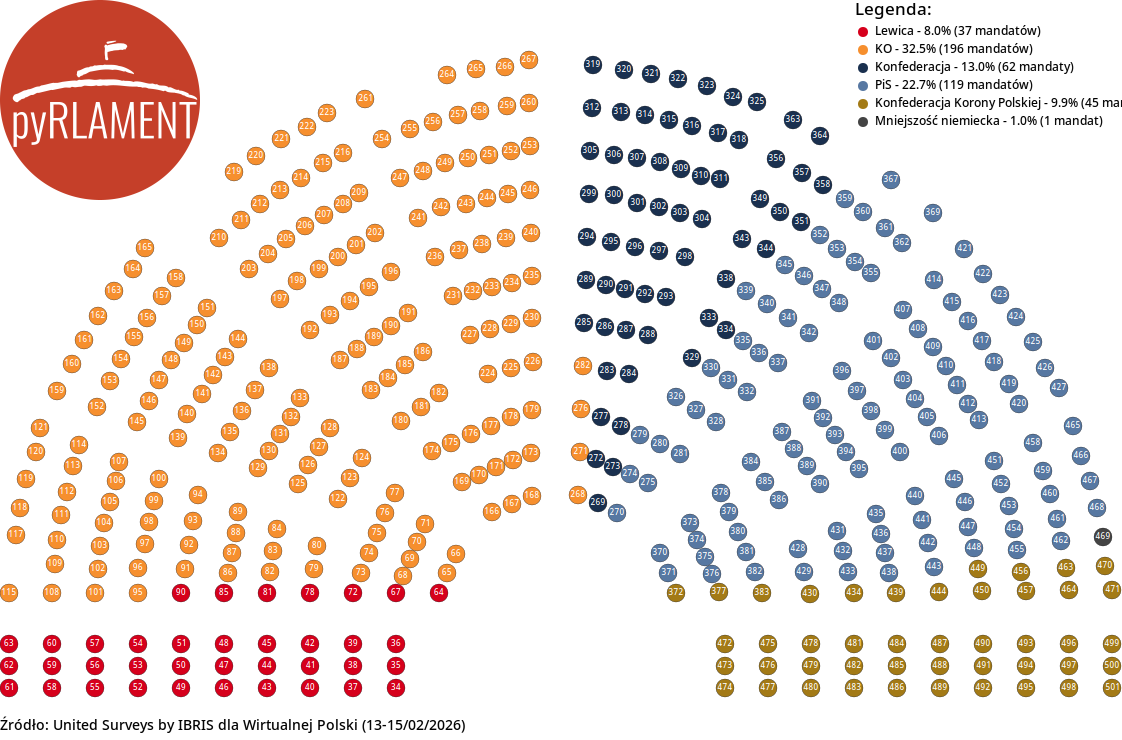
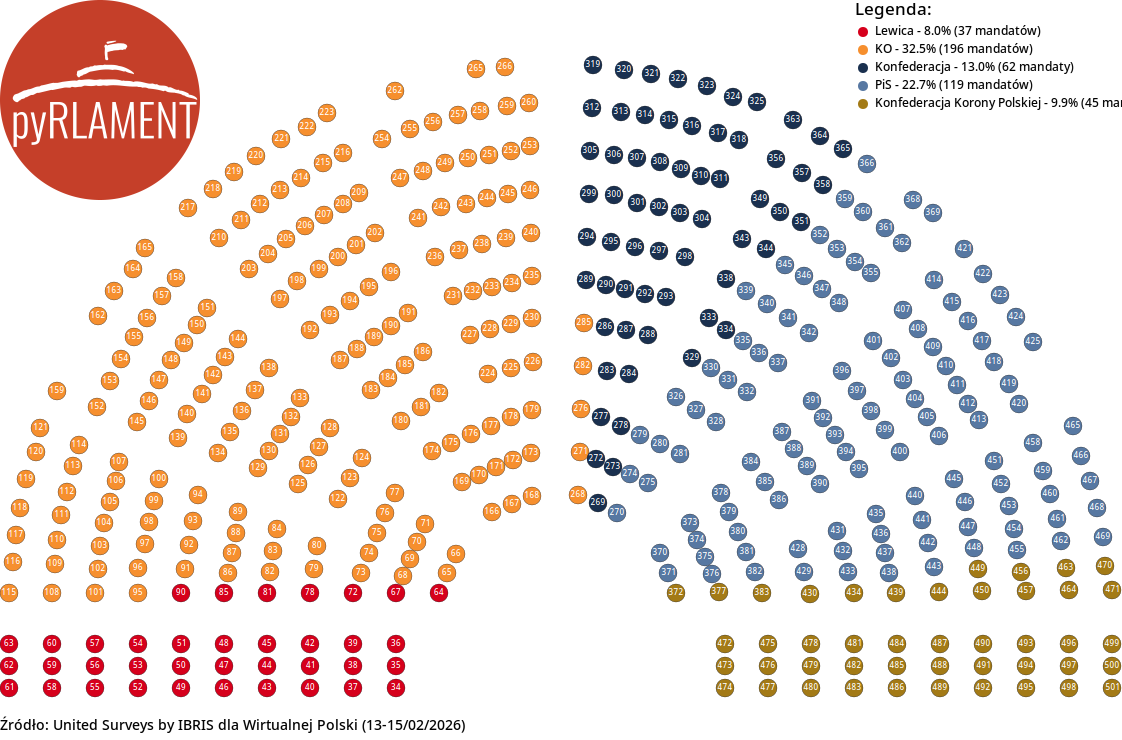
0.5.0 - making seats more even

diff --git a/pyrlament_demo.py b/pyrlament_demo.py
@@ -15,8 +15,12 @@ CAPTION = "Źródło: United Surveys by IBRIS dla Wirtualnej Polski (13-15/02/20
 
 
 def demo():
-    election = SeatsCounter(parties=PARTIES)
+    election = SeatsCounter(parties=PARTIES, include_german_minority=False)
     election.count()
+
+    for party in election.parties:
+        print(f"{party.name}: {party.seats}")
+
     g = SeatsGenerator(parties=election.parties, caption=CAPTION)
     g.colorize()
     g.save_svg("assets/pyrlament_sample.svg")

diff --git a/README.md b/README.md
@@ -22,14 +22,17 @@ Python library for visualizing seats in the Sejm of the Republic of Poland. So f
     from pyrlament import SeatsCounter
     from pyrlament.data import Party
 
-    election2019 = {
-        Party(name="PiS", support=43.59, threshold=8),
-        Party(name="KO", support=27.4, threshold=8),
-        Party(name="Lewica", support=12.56),
-        Party(name="PSL", label="Polska 2050-PSL", support=10.8, threshold=8, color="DCB44B"),
-        Party(name="Konfederacja", support=6.81),
-    }
-    election = SeatsCounter(parties=election2019)
+    polls_02_2026 = [
+        Party(name="Razem", support=3.1, color="870f57"),
+        Party(name="Lewica", support=8.0, color="d6001c"),
+        Party(name="KO", support=32.5, threshold=8, color="f68f2e"),
+        Party(name="Polska 2050", support=2.0, color="f9c408"),
+        Party(name="PSL", support=4.8, color="3cb63a"),
+        Party(name="Konfederacja", support=13.0, color="1a304f"),
+        Party(name="PiS", support=22.7, threshold=8, color="5778a2"),
+        Party(name="Konfederacja Korony Polskiej", support=9.9, color="a37a16"),
+    ]
+    election = SeatsCounter(parties=polls_02_2026, include_german_minority=False)
     election.count()
 
 As a result of the operation of the `count` method, the `parties` parameter will contain information about the seats in the parliament, ex.:
@@ -39,12 +42,14 @@ As a result of the operation of the `count` method, the `parties` parameter will
 
 ...should print:
 
-    PiS: 235,
-    KO: 134,
-    Lewica: 49,
-    PSL: 30
-    Konfederacja: 11
-    Mniejszość niemiecka: 1
+    Razem: 0
+    Lewica: 37
+    KO: 196
+    Polska 2050: 0
+    PSL: 0
+    Konfederacja: 62
+    PiS: 119
+    Konfederacja Korony Polskiej: 45
 
 ## SeatsGenerator:
 
